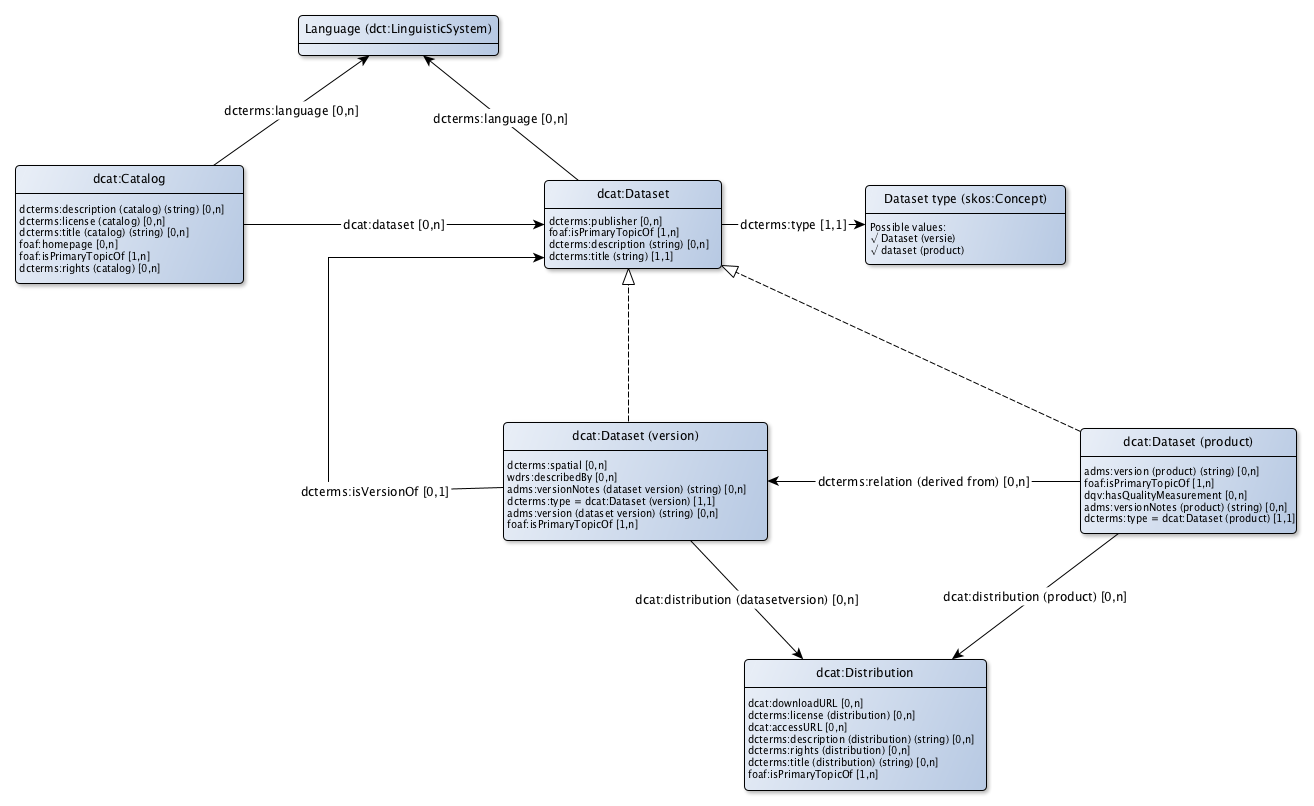
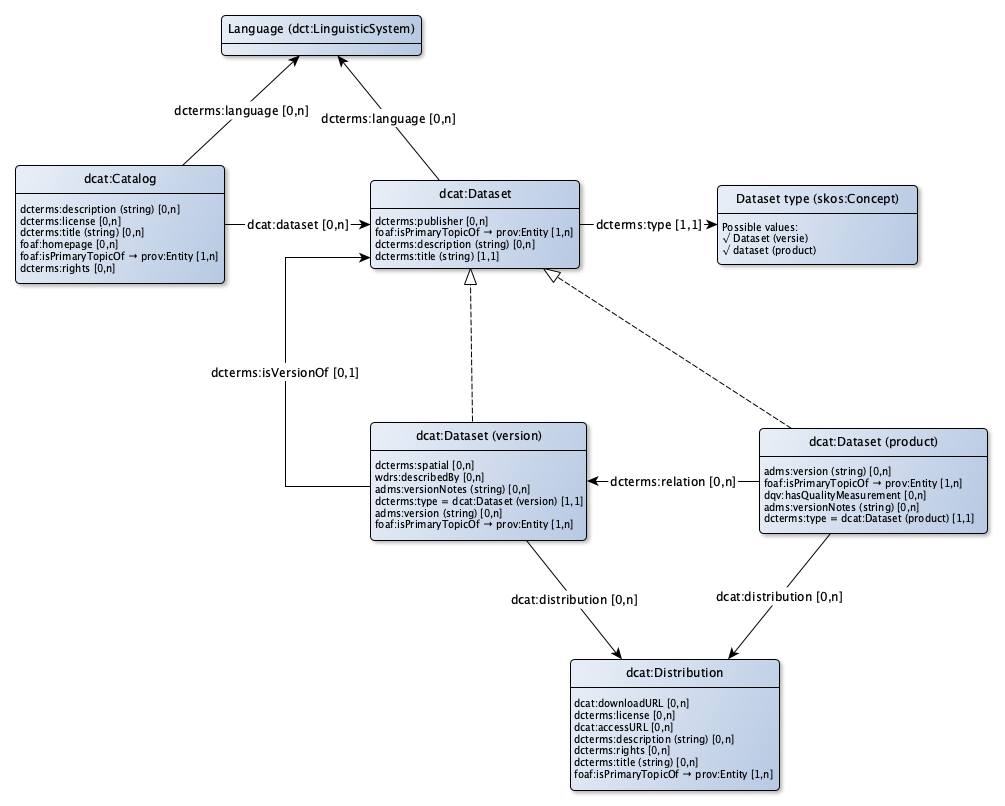
Update dcat for entity

diff --git a/model/dcat-ap-sc.md b/model/dcat-ap-sc.md
@@ -32,7 +32,7 @@ Een dataset is eigenlijk alles wat je een dataset noemt. Dat geeft de ruimte om 
 |Klasse|[dcat:Dataset](http://www.w3.org/ns/dcat#Dataset)
 |Uitleg|Een dataset is een algemene beschrijving van een verzameling data, gepubliceerd of samengesteld door één beheerder.
 |Voorbeeld|De Basisregistratie Kadaster (BRK) bestaat uit de kadastrale registratie van onroerende zaken, zakelijke rechten en de kadastrale kaart.
-|Eigenschappen en relaties|[beschrijving](http://bp4mc2.org/profiles/dcat-ap-sc#Dataset_description), [naam (dataset)](http://bp4mc2.org/profiles/dcat-ap-sc#Dataset_label), [taal](http://bp4mc2.org/profiles/dcat-ap-sc#Dataset_language), [herkomst (dataset)](http://bp4mc2.org/profiles/dcat-ap-sc#Dataset_provenance), [publicist](http://bp4mc2.org/profiles/dcat-ap-sc#Dataset_publisher), [type dataset](http://bp4mc2.org/profiles/dcat-ap-sc#Dataset_type)
+|Eigenschappen en relaties|[beschrijving](http://bp4mc2.org/profiles/dcat-ap-sc#Dataset_description), [titel](http://bp4mc2.org/profiles/dcat-ap-sc#Dataset_label), [taal](http://bp4mc2.org/profiles/dcat-ap-sc#Dataset_language), [herkomst](http://bp4mc2.org/profiles/dcat-ap-sc#Dataset_provenance), [publicist](http://bp4mc2.org/profiles/dcat-ap-sc#Dataset_publisher), [type dataset](http://bp4mc2.org/profiles/dcat-ap-sc#Dataset_type)
 
 
 ### Eigenschappen
@@ -47,8 +47,8 @@ Een dataset is eigenlijk alles wat je een dataset noemt. Dat geeft de ruimte om 
 
 |Eigenschap|Waarde
 |----------|------
-|Naam|naam (dataset)
-|Eigenschap|[dcterms:title (catalog)](http://purl.org/dc/terms/title)
+|Naam|titel
+|Eigenschap|[dcterms:title](http://purl.org/dc/terms/title)
 |Datatype|[Tekst](http://www.w3.org/2001/XMLSchema#string)
 |Uitleg|Een dataset heeft een naam.
 |Voorbeeld|de BRK (in algemene zin)
@@ -68,9 +68,9 @@ Een dataset is eigenlijk alles wat je een dataset noemt. Dat geeft de ruimte om 
 
 |Eigenschap|Waarde
 |----------|------
-|Label|herkomst (dataset)
+|Label|herkomst
 |Eigenschap|[foaf:isPrimaryTopicOf](http://xmlns.com/foaf/0.1/isPrimaryTopicOf)
-|Verwijst naar|[http://www.w3.org/ns/prov#Entity](http://www.w3.org/ns/prov#Entity)
+|Verwijst naar|[prov:Entity](http://www.w3.org/ns/prov#Entity)
 |Uitleg|Van een dataset kan de herkomst worden beschreven.
 |Voorbeeld|De BAG is op xx/xx/xx gelanceerd
 |Min card.|1
@@ -107,7 +107,7 @@ Een dataset is eigenlijk alles wat je een dataset noemt. Dat geeft de ruimte om 
 |Eigenschap|Waarde
 |----------|------
 |Naam|versie (dataset versie)
-|Eigenschap|[adms:version (product)](http://www.w3.org/ns/adms#version)
+|Eigenschap|[adms:version](http://www.w3.org/ns/adms#version)
 |Datatype|[Tekst](http://www.w3.org/2001/XMLSchema#string)
 |Uitleg|Een dataset (versie) kan een versie aanduiding hebben.
 |Voorbeeld|2.1.0
@@ -115,7 +115,7 @@ Een dataset is eigenlijk alles wat je een dataset noemt. Dat geeft de ruimte om 
 |Eigenschap|Waarde
 |----------|------
 |Naam|versie-notities (dataset versie)
-|Eigenschap|[adms:versionNotes (dataset version)](http://www.w3.org/ns/adms#versionNotes)
+|Eigenschap|[adms:versionNotes](http://www.w3.org/ns/adms#versionNotes)
 |Datatype|[Tekst](http://www.w3.org/2001/XMLSchema#string)
 |Uitleg|Een dataset (versie) kan release notes bevatten.
 |Voorbeeld|IMKAD 2.1.0 (publicatie 22-11-2011) is de final draft versie van IMKAD 2 zoals die is aangeboden aan belanghebbenden voor beoordeling. Het commentaar is voor zover mogelijk verwerkt in versie 2.1.1. Deze wijzigingen zijn terug te vinden in de change log.
@@ -133,7 +133,7 @@ Een dataset is eigenlijk alles wat je een dataset noemt. Dat geeft de ruimte om 
 |Eigenschap|Waarde
 |----------|------
 |Label|distributie (dataset versie)
-|Eigenschap|[dcat:distribution (datasetversion)](http://www.w3.org/ns/dcat#distribution)
+|Eigenschap|[dcat:distribution](http://www.w3.org/ns/dcat#distribution)
 |Verwijst naar|[dcat:Distribution](http://www.w3.org/ns/dcat#Distribution)
 |Uitleg|De kanalen via welke een dataset (versie) kan worden verspreid kunnen worden gespecificeerd.
 |Voorbeeld|Digitale Kadastrale Kaart download service.
@@ -150,7 +150,7 @@ Een dataset is eigenlijk alles wat je een dataset noemt. Dat geeft de ruimte om 
 |----------|------
 |Label|herkomst (dataset versie)
 |Eigenschap|[foaf:isPrimaryTopicOf](http://xmlns.com/foaf/0.1/isPrimaryTopicOf)
-|Verwijst naar|[http://www.w3.org/ns/prov#Entity](http://www.w3.org/ns/prov#Entity)
+|Verwijst naar|[prov:Entity](http://www.w3.org/ns/prov#Entity)
 |Uitleg|Van een dataset (versie) kan de herkomst worden beschreven.
 |Voorbeeld|De BAG 2.0 is op xx/xx/xx gelanceerd
 |Min card.|1
@@ -190,7 +190,7 @@ Een dataset is eigenlijk alles wat je een dataset noemt. Dat geeft de ruimte om 
 |Eigenschap|Waarde
 |----------|------
 |Naam|versie (product)
-|Eigenschap|[adms:version (product)](http://www.w3.org/ns/adms#version)
+|Eigenschap|[adms:version](http://www.w3.org/ns/adms#version)
 |Datatype|[Tekst](http://www.w3.org/2001/XMLSchema#string)
 |Uitleg|Een dataset (product) kan een versie aanduiding hebben.
 |Voorbeeld|2.1.0, 2.1.0
@@ -198,7 +198,7 @@ Een dataset is eigenlijk alles wat je een dataset noemt. Dat geeft de ruimte om 
 |Eigenschap|Waarde
 |----------|------
 |Naam|versie notities (product)
-|Eigenschap|[adms:versionNotes (dataset version)](http://www.w3.org/ns/adms#versionNotes)
+|Eigenschap|[adms:versionNotes](http://www.w3.org/ns/adms#versionNotes)
 |Datatype|[Tekst](http://www.w3.org/2001/XMLSchema#string)
 |Uitleg|Een dataset (product) kan release notes bevatten.
 |Voorbeeld|BRK levering 2.2 is aangepast aan IMKAD 2.1.0, waarmee de volgende nieuwe functionaliteit is toegevoegd ...
@@ -209,7 +209,7 @@ Een dataset is eigenlijk alles wat je een dataset noemt. Dat geeft de ruimte om 
 |Eigenschap|Waarde
 |----------|------
 |Label|distributie (product)
-|Eigenschap|[dcat:distribution (datasetversion)](http://www.w3.org/ns/dcat#distribution)
+|Eigenschap|[dcat:distribution](http://www.w3.org/ns/dcat#distribution)
 |Verwijst naar|[dcat:Distribution](http://www.w3.org/ns/dcat#Distribution)
 |Uitleg|De kanalen via welke een dataset (product) kan worden verspreid kunnen worden gespecificeerd.
 |Voorbeeld|De 'BAG extract' download service.
@@ -217,7 +217,7 @@ Een dataset is eigenlijk alles wat je een dataset noemt. Dat geeft de ruimte om 
 |Eigenschap|Waarde
 |----------|------
 |Label|afgeleid van
-|Eigenschap|[dcterms:relation (derived from)](http://purl.org/dc/terms/relation)
+|Eigenschap|[dcterms:relation](http://purl.org/dc/terms/relation)
 |Relatie met|[Dataset (versie)](http://bp4mc2.org/profiles/dcat-ap-sc#DatasetVersion)
 |Uitleg|Een dataset (product) kan zijn afgeleid van een dataset (versie).
 |Voorbeeld|BRK levering 2.2 isafgeleid van IMKAD 2.1.0.
@@ -226,7 +226,7 @@ Een dataset is eigenlijk alles wat je een dataset noemt. Dat geeft de ruimte om 
 |----------|------
 |Label|herkomst (product)
 |Eigenschap|[foaf:isPrimaryTopicOf](http://xmlns.com/foaf/0.1/isPrimaryTopicOf)
-|Verwijst naar|[http://www.w3.org/ns/prov#Entity](http://www.w3.org/ns/prov#Entity)
+|Verwijst naar|[prov:Entity](http://www.w3.org/ns/prov#Entity)
 |Uitleg|Van een informatie product kan de herkomst worden beschreven.
 |Voorbeeld|De BAG 2.0 is op xx/xx/xx gelanceerd
 |Min card.|1
@@ -273,7 +273,7 @@ Een dataset is eigenlijk alles wat je een dataset noemt. Dat geeft de ruimte om 
 |Eigenschap|Waarde
 |----------|------
 |Naam|naam (catalogus)
-|Eigenschap|[dcterms:title (catalog)](http://purl.org/dc/terms/title)
+|Eigenschap|[dcterms:title](http://purl.org/dc/terms/title)
 |Datatype|[Tekst](http://www.w3.org/2001/XMLSchema#string)
 |Uitleg|De catalogus kan een naam hebben
 |Voorbeeld|Catalogus Omgevingswet
@@ -307,7 +307,7 @@ Een dataset is eigenlijk alles wat je een dataset noemt. Dat geeft de ruimte om 
 |Eigenschap|Waarde
 |----------|------
 |Label|licentie (catalogus)
-|Eigenschap|[dcterms:license (catalog)](http://purl.org/dc/terms/license)
+|Eigenschap|[dcterms:license](http://purl.org/dc/terms/license)
 |Uitleg|De licentie is van toepassing op de catalogus kan worden gespecificeerd. Dit kan een andere licentie zijn als de licentie voor distributies van datasets.
 |Voorbeeld|Creative Commons Naamsvermelding 4.0 licentie
 
@@ -315,7 +315,7 @@ Een dataset is eigenlijk alles wat je een dataset noemt. Dat geeft de ruimte om 
 |----------|------
 |Label|herkomst (catalogus)
 |Eigenschap|[foaf:isPrimaryTopicOf](http://xmlns.com/foaf/0.1/isPrimaryTopicOf)
-|Verwijst naar|[http://www.w3.org/ns/prov#Entity](http://www.w3.org/ns/prov#Entity)
+|Verwijst naar|[prov:Entity](http://www.w3.org/ns/prov#Entity)
 |Uitleg|Van een catalogus kan de herkomst worden beschreven.
 |Voorbeeld|De beschrijving van de catalogus voor de BAG is aangepast nav de nieuwe wet op de BAG
 |Min card.|1
@@ -323,7 +323,7 @@ Een dataset is eigenlijk alles wat je een dataset noemt. Dat geeft de ruimte om 
 |Eigenschap|Waarde
 |----------|------
 |Label|rechten (catalogus)
-|Eigenschap|[dcterms:rights (distribution)](http://purl.org/dc/terms/rights)
+|Eigenschap|[dcterms:rights](http://purl.org/dc/terms/rights)
 |Uitleg|De rechten die van toepassing zijn op de catalogus kunnen worden beschreven. Dit kunnen andere rechten zijn als die voor distributies van datasets
 |Voorbeeld|Proclaimer: De Catalogus voor de Omgevingswet verbindt definities, toelichtingen en uitleg van begrippen, regels, informatiemodellen, producten en services met elkaar. De datasets waarin deze worden beschreven worden federatief beheerd door de betreffende bronhouders. Bij iedere dataset wordt aangegeven wie de bronhouder is en daarmee verantwoordelijk is voor de inhoud.
 
@@ -351,7 +351,7 @@ Een dataset is eigenlijk alles wat je een dataset noemt. Dat geeft de ruimte om 
 |Eigenschap|Waarde
 |----------|------
 |Naam|naam (distirbutie)
-|Eigenschap|[dcterms:title (catalog)](http://purl.org/dc/terms/title)
+|Eigenschap|[dcterms:title](http://purl.org/dc/terms/title)
 |Datatype|[Tekst](http://www.w3.org/2001/XMLSchema#string)
 |Uitleg|De distributie kan een naam hebben
 |Voorbeeld|Digitale Kadastrale Kaart download service
@@ -376,7 +376,7 @@ Een dataset is eigenlijk alles wat je een dataset noemt. Dat geeft de ruimte om 
 |Eigenschap|Waarde
 |----------|------
 |Label|licentie (distributie)
-|Eigenschap|[dcterms:license (catalog)](http://purl.org/dc/terms/license)
+|Eigenschap|[dcterms:license](http://purl.org/dc/terms/license)
 |Uitleg|De licentie is van toepassing op de distributie kan worden gespecificeerd. Dit kan een andere licentie zijn als de licentie voor de catalogus.
 |Voorbeeld|Creative Commons Naamsvermelding 4.0 licentie
 
@@ -384,7 +384,7 @@ Een dataset is eigenlijk alles wat je een dataset noemt. Dat geeft de ruimte om 
 |----------|------
 |Label|herkomst (distributie)
 |Eigenschap|[foaf:isPrimaryTopicOf](http://xmlns.com/foaf/0.1/isPrimaryTopicOf)
-|Verwijst naar|[http://www.w3.org/ns/prov#Entity](http://www.w3.org/ns/prov#Entity)
+|Verwijst naar|[prov:Entity](http://www.w3.org/ns/prov#Entity)
 |Uitleg|Van een distirbutie kan de herkomst worden beschreven.
 |Voorbeeld|De beschrijving van de catalogus voor de BAG is aangepast nav de nieuwe wet op de BAG
 |Min card.|1
@@ -392,7 +392,7 @@ Een dataset is eigenlijk alles wat je een dataset noemt. Dat geeft de ruimte om 
 |Eigenschap|Waarde
 |----------|------
 |Label|rechten (distributie)
-|Eigenschap|[dcterms:rights (distribution)](http://purl.org/dc/terms/rights)
+|Eigenschap|[dcterms:rights](http://purl.org/dc/terms/rights)
 |Uitleg|De rechten die van toepassing zijn op de distributie kunnen worden beschreven. Dit kunnen andere rechten zijn als die voor distributies van de catalogus. Zie ook: svbg:gebruiksvoorwaarden en iso:confidentiality., De rechten met betrekking tot de distributie zijn beschreven. See also svbg:gebruiksvoorwaarden en iso:confidentiality.
 |Voorbeeld|Wilt u direct aan  de slag met BRK Levering? Raadpleeg dan de reference card bij 'Documenten'. Daarin vindt u de stappen die u moet zetten om met BRK Levering te kunnen starten. Eerste of éénmalige levering tot 100.000 objecten, per object €1,16;tot 1.000.000 objecten, per object €0,98;bij meer dan 1.000.000 objecten, per object €0,73;Gebiedsuitbreiding van een bestaand abonnement, per object €1,16;Abonnementslevering, per jaar en per 1.000 objecten binnen abonnement €208,00;Extra (losse) levering van een bestand, per verstrekking €192,00;Tweede mutatie-abonnement, per jaar €192,00;Deze bedragen zijn vrij van btw;Dit product valt onder de budgetfinanciering BRK.
 

diff --git a/model/en/dcat-ap-sc.md b/model/en/dcat-ap-sc.md
@@ -31,7 +31,7 @@ A dataset is actually everything you call a dataset. A dataset is not defined sh
 |----------|------
 |Class|[dcat:Dataset](http://www.w3.org/ns/dcat#Dataset)
 |Description|A dataset is a description of a collection of data, published or curated by a single agent.
-|Properties en relations|[description](http://bp4mc2.org/profiles/dcat-ap-sc#Dataset_description), [label (dataset)](http://bp4mc2.org/profiles/dcat-ap-sc#Dataset_label), [language](http://bp4mc2.org/profiles/dcat-ap-sc#Dataset_language), [provenance (dataset)](http://bp4mc2.org/profiles/dcat-ap-sc#Dataset_provenance), [publisher](http://bp4mc2.org/profiles/dcat-ap-sc#Dataset_publisher), [type dataset](http://bp4mc2.org/profiles/dcat-ap-sc#Dataset_type)
+|Properties en relations|[description](http://bp4mc2.org/profiles/dcat-ap-sc#Dataset_description), [title](http://bp4mc2.org/profiles/dcat-ap-sc#Dataset_label), [language](http://bp4mc2.org/profiles/dcat-ap-sc#Dataset_language), [provenance](http://bp4mc2.org/profiles/dcat-ap-sc#Dataset_provenance), [publisher](http://bp4mc2.org/profiles/dcat-ap-sc#Dataset_publisher), [type dataset](http://bp4mc2.org/profiles/dcat-ap-sc#Dataset_type)
 
 
 ### Properties
@@ -45,8 +45,8 @@ A dataset is actually everything you call a dataset. A dataset is not defined sh
 
 |Eigenschap|Waarde
 |----------|------
-|Naam|label (dataset)
-|Property|[dcterms:title (catalog)](http://purl.org/dc/terms/title)
+|Naam|title
+|Property|[dcterms:title](http://purl.org/dc/terms/title)
 |Datatype|[Text](http://www.w3.org/2001/XMLSchema#string)
 |Description|A dataset has a label.
 |Min card.|1
@@ -64,9 +64,9 @@ A dataset is actually everything you call a dataset. A dataset is not defined sh
 
 |Eigenschap|Waarde
 |----------|------
-|Label|provenance (dataset)
+|Label|provenance
 |Property|[foaf:isPrimaryTopicOf](http://xmlns.com/foaf/0.1/isPrimaryTopicOf)
-|Refers to|[http://www.w3.org/ns/prov#Entity](http://www.w3.org/ns/prov#Entity)
+|Refers to|[prov:Entity](http://www.w3.org/ns/prov#Entity)
 |Description|Provenance of a dataset can be described.
 |Example|De BAG is op xx/xx/xx gelanceerd
 |Min card.|1
@@ -101,14 +101,14 @@ A dataset is actually everything you call a dataset. A dataset is not defined sh
 |Eigenschap|Waarde
 |----------|------
 |Naam|version (dataset version)
-|Property|[adms:version (product)](http://www.w3.org/ns/adms#version)
+|Property|[adms:version](http://www.w3.org/ns/adms#version)
 |Datatype|[Text](http://www.w3.org/2001/XMLSchema#string)
 |Description|A dataset (version) can have a version indication.
 
 |Eigenschap|Waarde
 |----------|------
 |Naam|version notes (dataset version)
-|Property|[adms:versionNotes (dataset version)](http://www.w3.org/ns/adms#versionNotes)
+|Property|[adms:versionNotes](http://www.w3.org/ns/adms#versionNotes)
 |Datatype|[Text](http://www.w3.org/2001/XMLSchema#string)
 |Description|A dataset (version) can contain release notes.
 
@@ -125,7 +125,7 @@ A dataset is actually everything you call a dataset. A dataset is not defined sh
 |Eigenschap|Waarde
 |----------|------
 |Label|distribution (dataset version)
-|Property|[dcat:distribution (datasetversion)](http://www.w3.org/ns/dcat#distribution)
+|Property|[dcat:distribution](http://www.w3.org/ns/dcat#distribution)
 |Refers to|[dcat:Distribution](http://www.w3.org/ns/dcat#Distribution)
 |Description|The channels through which a dataset (version) can be distributed can be recorded.
 
@@ -140,7 +140,7 @@ A dataset is actually everything you call a dataset. A dataset is not defined sh
 |----------|------
 |Label|provenance (dataset version)
 |Property|[foaf:isPrimaryTopicOf](http://xmlns.com/foaf/0.1/isPrimaryTopicOf)
-|Refers to|[http://www.w3.org/ns/prov#Entity](http://www.w3.org/ns/prov#Entity)
+|Refers to|[prov:Entity](http://www.w3.org/ns/prov#Entity)
 |Description|Provenance of a dataset (version) can be described.
 |Example|De BAG 2.0 is op xx/xx/xx gelanceerd
 |Min card.|1
@@ -177,7 +177,7 @@ A dataset is actually everything you call a dataset. A dataset is not defined sh
 |Eigenschap|Waarde
 |----------|------
 |Naam|version (product)
-|Property|[adms:version (product)](http://www.w3.org/ns/adms#version)
+|Property|[adms:version](http://www.w3.org/ns/adms#version)
 |Datatype|[Text](http://www.w3.org/2001/XMLSchema#string)
 |Description|A dataset (product) can have a version indication.
 |Example|2.1.0
@@ -185,7 +185,7 @@ A dataset is actually everything you call a dataset. A dataset is not defined sh
 |Eigenschap|Waarde
 |----------|------
 |Naam|version notes (product)
-|Property|[adms:versionNotes (dataset version)](http://www.w3.org/ns/adms#versionNotes)
+|Property|[adms:versionNotes](http://www.w3.org/ns/adms#versionNotes)
 |Datatype|[Text](http://www.w3.org/2001/XMLSchema#string)
 |Description|A dataset (product) can contain release notes.
 
@@ -195,14 +195,14 @@ A dataset is actually everything you call a dataset. A dataset is not defined sh
 |Eigenschap|Waarde
 |----------|------
 |Label|distribution (product)
-|Property|[dcat:distribution (datasetversion)](http://www.w3.org/ns/dcat#distribution)
+|Property|[dcat:distribution](http://www.w3.org/ns/dcat#distribution)
 |Refers to|[dcat:Distribution](http://www.w3.org/ns/dcat#Distribution)
 |Description|The channels through which a dataset (product) can be distributed can be recorded.
 
 |Eigenschap|Waarde
 |----------|------
 |Label|derived from
-|Property|[dcterms:relation (derived from)](http://purl.org/dc/terms/relation)
+|Property|[dcterms:relation](http://purl.org/dc/terms/relation)
 |Related with|[Dataset (version)](http://bp4mc2.org/profiles/dcat-ap-sc#DatasetVersion)
 |Description|A dataset (product) can be derived from a dataset (version).
 
@@ -210,7 +210,7 @@ A dataset is actually everything you call a dataset. A dataset is not defined sh
 |----------|------
 |Label|provenance (product)
 |Property|[foaf:isPrimaryTopicOf](http://xmlns.com/foaf/0.1/isPrimaryTopicOf)
-|Refers to|[http://www.w3.org/ns/prov#Entity](http://www.w3.org/ns/prov#Entity)
+|Refers to|[prov:Entity](http://www.w3.org/ns/prov#Entity)
 |Description|Provenance of an information product can be described.
 |Example|De BAG 2.0 is op xx/xx/xx gelanceerd
 |Min card.|1
@@ -253,7 +253,7 @@ A dataset is actually everything you call a dataset. A dataset is not defined sh
 |Eigenschap|Waarde
 |----------|------
 |Naam|label (catalog)
-|Property|[dcterms:title (catalog)](http://purl.org/dc/terms/title)
+|Property|[dcterms:title](http://purl.org/dc/terms/title)
 |Datatype|[Text](http://www.w3.org/2001/XMLSchema#string)
 |Description|The catalog can have has a label
 |Example|Catalogus Omgevingswet
@@ -285,7 +285,7 @@ A dataset is actually everything you call a dataset. A dataset is not defined sh
 |Eigenschap|Waarde
 |----------|------
 |Label|license (catalog)
-|Property|[dcterms:license (catalog)](http://purl.org/dc/terms/license)
+|Property|[dcterms:license](http://purl.org/dc/terms/license)
 |Description|The license applied to the catalog can be specified. This can be another license as the license for distributions of datasets.
 |Example|Creative Commons Naamsvermelding 4.0 licentie
 
@@ -293,7 +293,7 @@ A dataset is actually everything you call a dataset. A dataset is not defined sh
 |----------|------
 |Label|provenance (catalog)
 |Property|[foaf:isPrimaryTopicOf](http://xmlns.com/foaf/0.1/isPrimaryTopicOf)
-|Refers to|[http://www.w3.org/ns/prov#Entity](http://www.w3.org/ns/prov#Entity)
+|Refers to|[prov:Entity](http://www.w3.org/ns/prov#Entity)
 |Description|Provenance of a catalog can be described.
 |Example|De beschrijving van de catalogus voor de BAG is aangepast nav de nieuwe wet op de BAG
 |Min card.|1
@@ -301,7 +301,7 @@ A dataset is actually everything you call a dataset. A dataset is not defined sh
 |Eigenschap|Waarde
 |----------|------
 |Label|rights (catalog)
-|Property|[dcterms:rights (distribution)](http://purl.org/dc/terms/rights)
+|Property|[dcterms:rights](http://purl.org/dc/terms/rights)
 |Description|The rights applied to the catalog can be specified. This can be nother rights as the rights for distributions of datasets.
 
 
@@ -326,7 +326,7 @@ A dataset is actually everything you call a dataset. A dataset is not defined sh
 |Eigenschap|Waarde
 |----------|------
 |Naam|label (distribution)
-|Property|[dcterms:title (catalog)](http://purl.org/dc/terms/title)
+|Property|[dcterms:title](http://purl.org/dc/terms/title)
 |Datatype|[Text](http://www.w3.org/2001/XMLSchema#string)
 |Description|De distribution can have a label
 
@@ -348,14 +348,14 @@ A dataset is actually everything you call a dataset. A dataset is not defined sh
 |Eigenschap|Waarde
 |----------|------
 |Label|license (distribution)
-|Property|[dcterms:license (catalog)](http://purl.org/dc/terms/license)
+|Property|[dcterms:license](http://purl.org/dc/terms/license)
 |Description|The license applied to the distribution can be specified. This can be another license as the license for the catalog.
 
 |Eigenschap|Waarde
 |----------|------
 |Label|provenance (distribution)
 |Property|[foaf:isPrimaryTopicOf](http://xmlns.com/foaf/0.1/isPrimaryTopicOf)
-|Refers to|[http://www.w3.org/ns/prov#Entity](http://www.w3.org/ns/prov#Entity)
+|Refers to|[prov:Entity](http://www.w3.org/ns/prov#Entity)
 |Description|Provenance of a distribution can be described.
 |Example|De beschrijving van de catalogus voor de BAG is aangepast nav de nieuwe wet op de BAG
 |Min card.|1
@@ -363,7 +363,7 @@ A dataset is actually everything you call a dataset. A dataset is not defined sh
 |Eigenschap|Waarde
 |----------|------
 |Label|rights (distribution)
-|Property|[dcterms:rights (distribution)](http://purl.org/dc/terms/rights)
+|Property|[dcterms:rights](http://purl.org/dc/terms/rights)
 |Description|The rights applied to the distribution can be specified. This can be nother rights as the rights for the catalog.
 
 

diff --git a/model/en/skos-ap-sc.md b/model/en/skos-ap-sc.md
@@ -268,7 +268,7 @@ SKOS is used to describe concepts. SKOS is a standard on the appy-or-explain lis
 
 |Eigenschap|Waarde
 |----------|------
-|Role|[skos:ConceptScheme](http://www.w3.org/2004/02/skos/core#ConceptScheme), [adms:Asset](http://www.w3.org/ns/adms#Asset)
+|Role|[adms:Asset](http://www.w3.org/ns/adms#Asset), [skos:ConceptScheme](http://www.w3.org/2004/02/skos/core#ConceptScheme)
 |Description|A concept scheme can be identified as an asset.
 |Properties en relations|[type asset = Concept scheme](http://bp4mc2.org/profiles/skos-ap-sc#AssetConceptScheme_typeConceptScheme)
 
